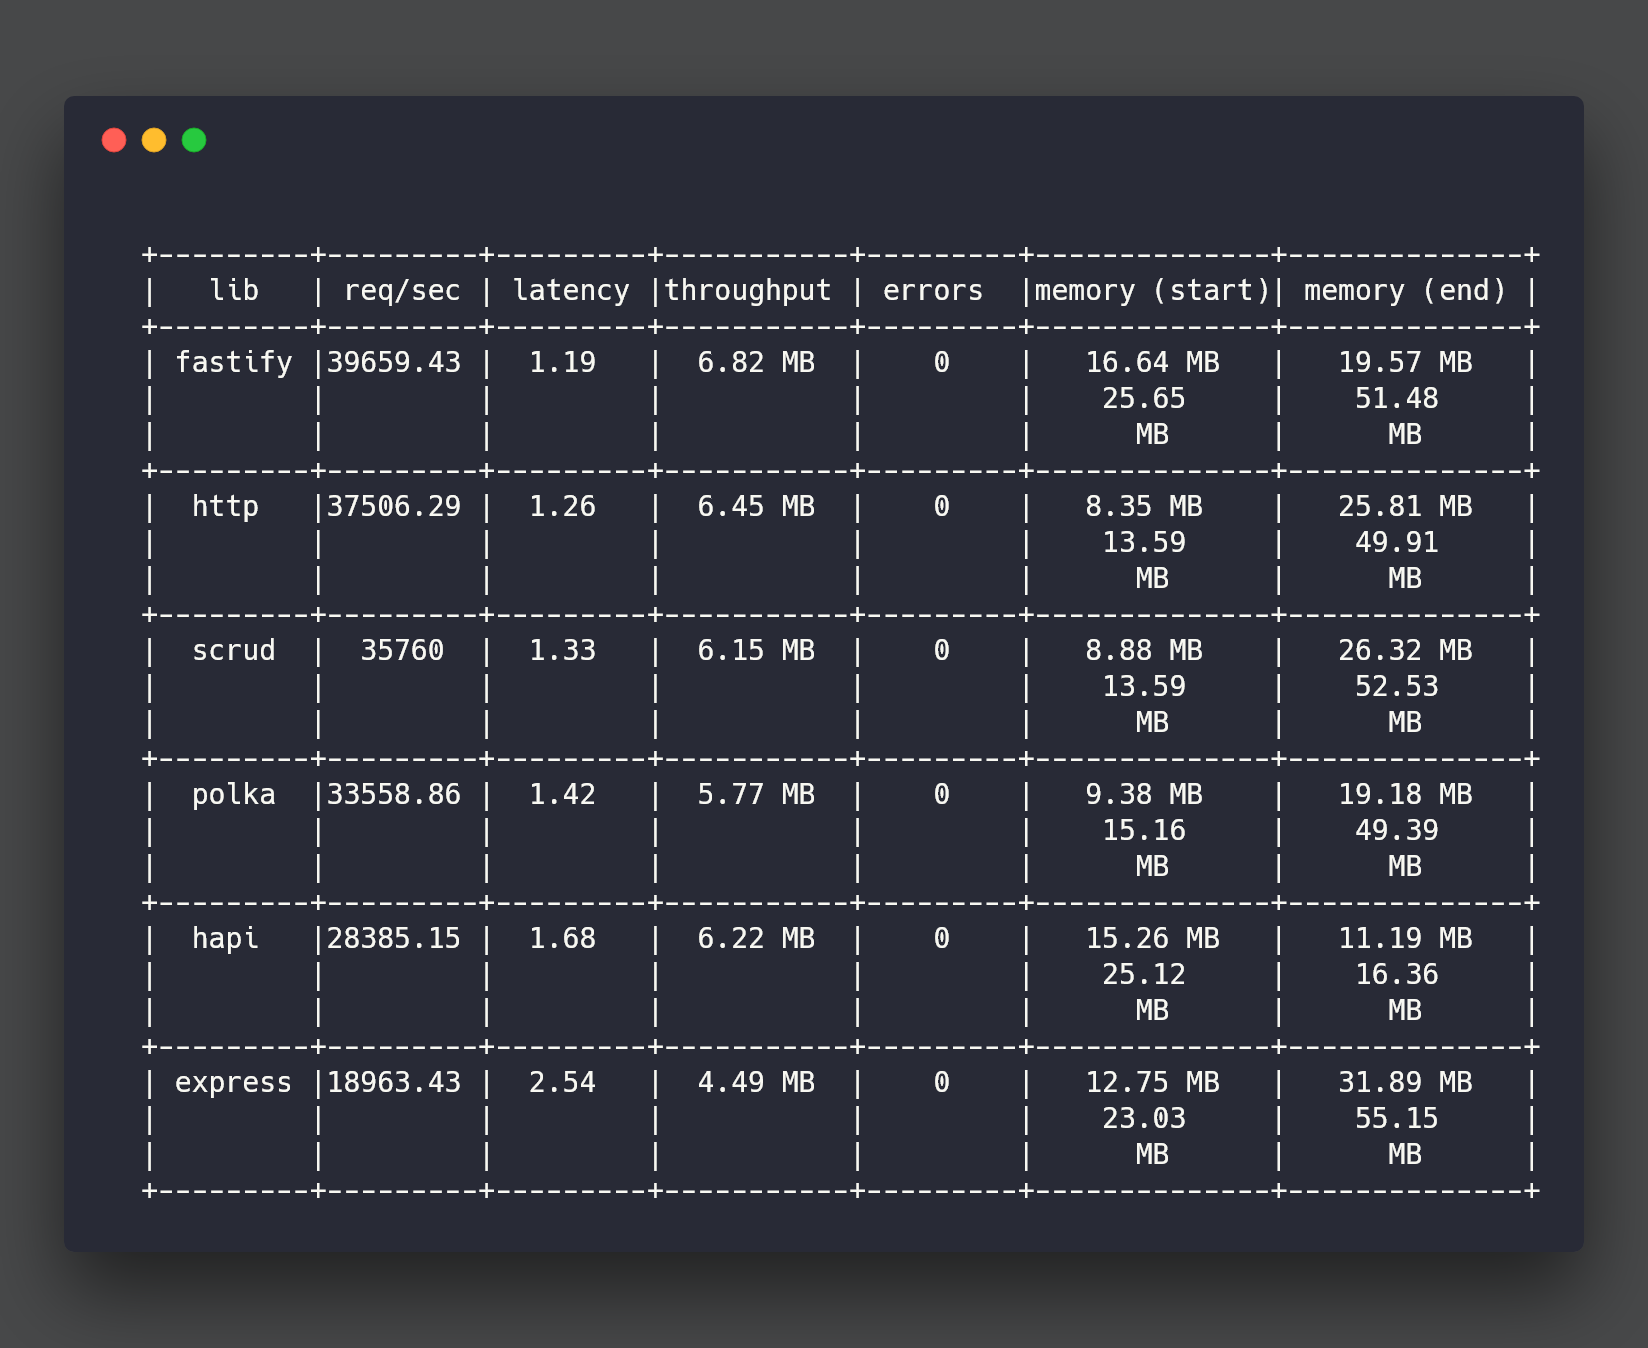
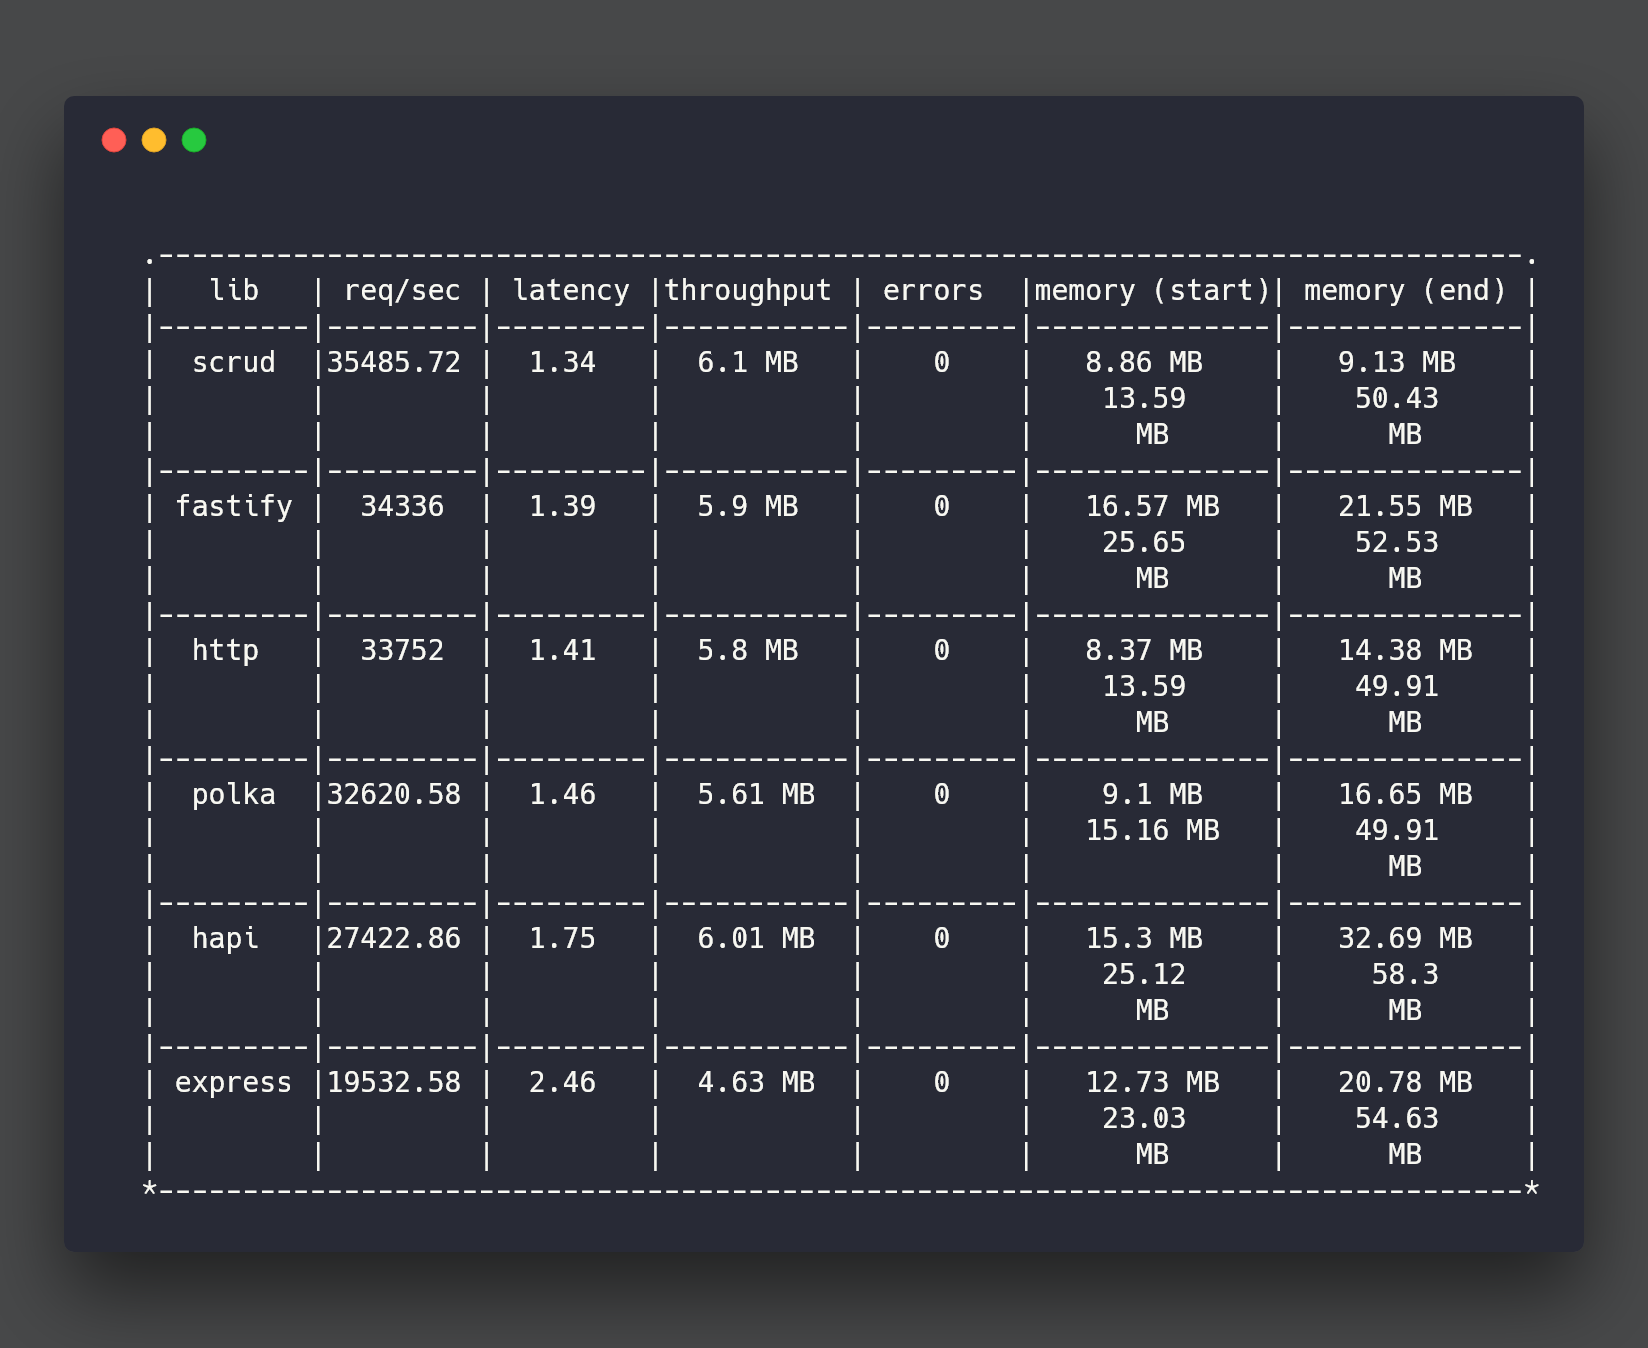
Tweak bench table formatting

diff --git a/bench/index.js b/bench/index.js
@@ -160,9 +160,9 @@ async function bench () {
       { v: ' ', l: ' ', j: ' ', h: ' ', r: ' ' }
     ],
     [
-      { v: '|', l: '+', j: '+', h: '-', r: '+' },
-      { v: '|', l: '+', j: '+', h: '-', r: '+' },
-      { v: '|', l: '+', j: '+', h: '-', r: '+' }
+      { v: '|', l: '.', j: '-', h: '-', r: '.' },
+      { v: '|', l: '|', j: '|', h: '-', r: '|' },
+      { v: '|', l: '*', j: '-', h: '-', r: '*' }
     ],
     [
       { v: '|', l: '+', j: '+', h: '-', r: '+' },
